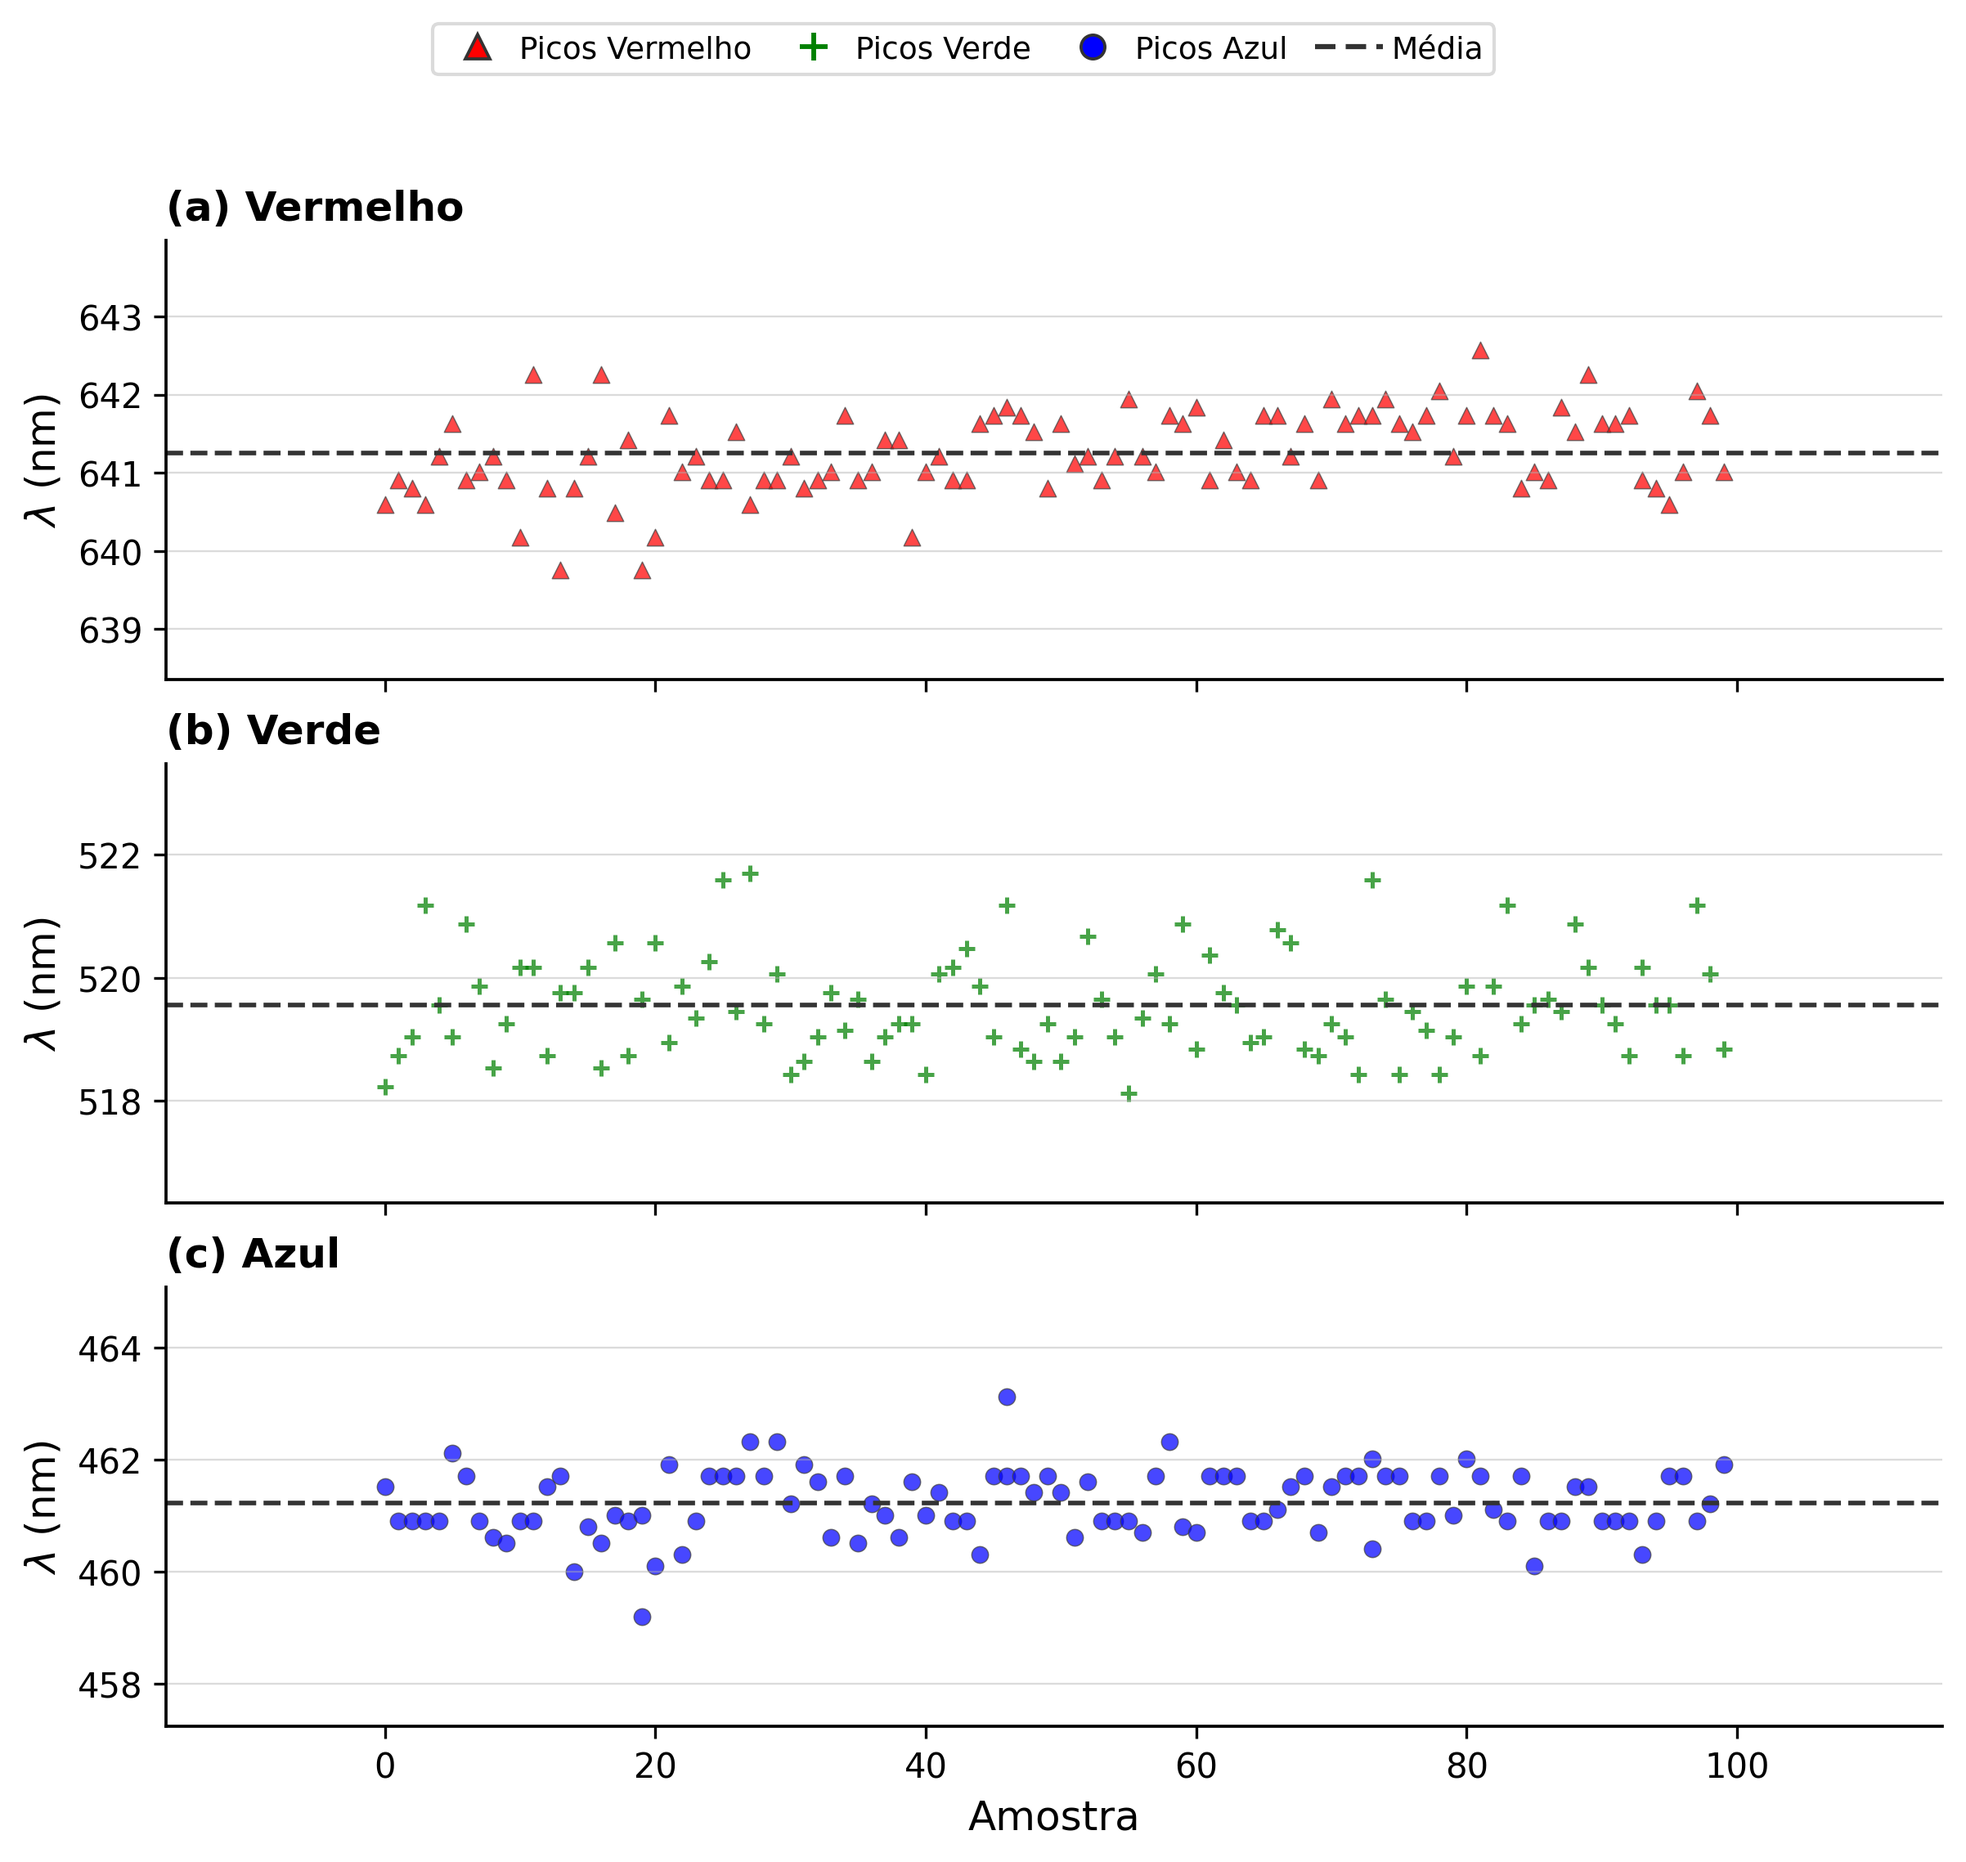
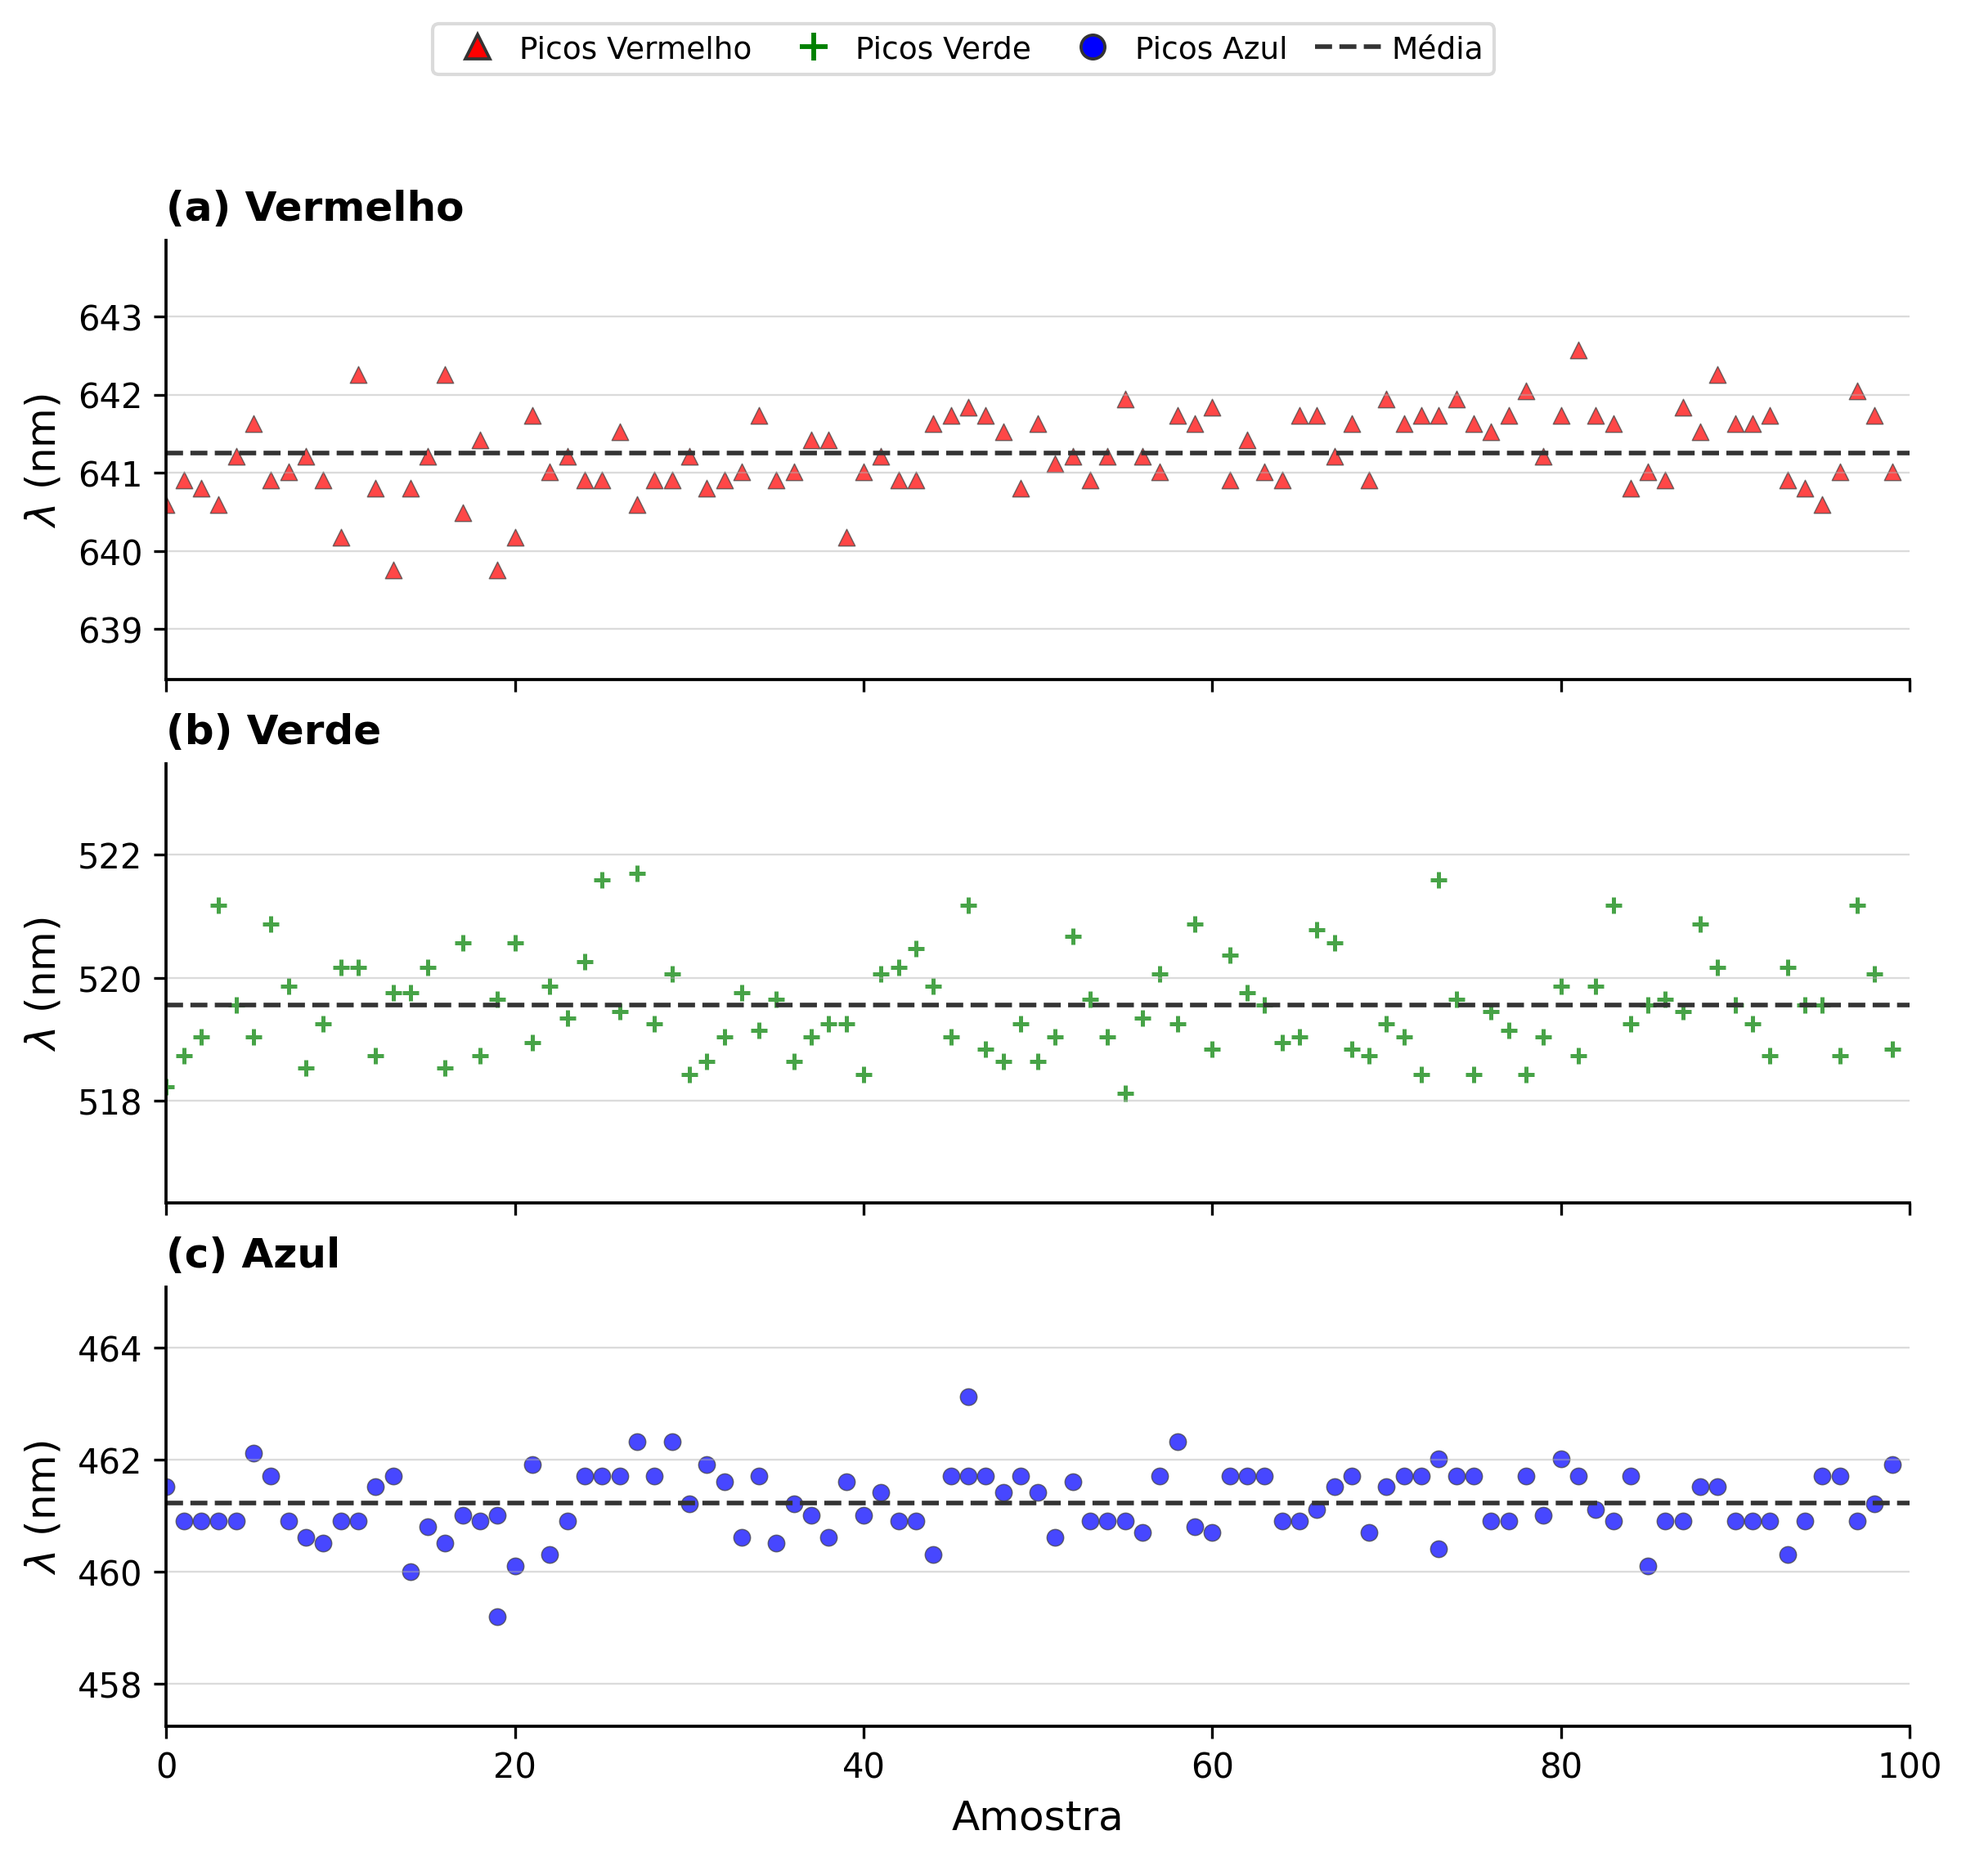
Refine temporal paper plots for axis consistency and cleaner histograms
Keep the sample axis fixed while widening figure layout, simplify histogram annotations to mean-only, and cap histogram counts at 100 for consistent visual comparison across datasets.

Made-with: Cursor

diff --git a/Experimentos/scripts/analise2paper.py b/Experimentos/scripts/analise2paper.py
@@ -621,11 +621,9 @@ def gerar_graficos_estatisticos(grupos_picos, estatisticas_df, fonte="visible"):
     # --- Gráfico 1: evolução temporal (enxuto para paper) ---
     # Marcadores por painel (ordem RVG): triângulo, +, círculo; legenda com mesma cor.
     markers_temporal = ("^", "+", "o")
+    # Largura da figura +30%: mais espaco horizontal em polegadas, sem alterar xlim
+    # (evita deslocar o zero em relacao aos dados).
     largura_fig_temporal = 6.2 * 1.3
-    # Eixo de amostra ~30% mais longo (centrado em 0..100)
-    _cx_amostra = 49.5
-    _meia_span_amostra = 0.5 * 101.0 * 1.3
-    xlim_amostra = (_cx_amostra - _meia_span_amostra, _cx_amostra + _meia_span_amostra)
 
     with plt.rc_context(_matplotlib_paper_context()):
         fig, axes = plt.subplots(
@@ -679,7 +677,8 @@ def gerar_graficos_estatisticos(grupos_picos, estatisticas_df, fonte="visible"):
             ax.set_title(panel, loc="left", fontweight="600")
             ax.grid(True, axis="y", linestyle="-", alpha=0.45)
             _spines_clean(ax)
-            ax.set_xlim(*xlim_amostra)
+            # Amostras 0..99: eixo x fixo sem deslocar a escala (zero na origem do eixo).
+            ax.set_xlim(0, 100)
 
             # Dobrar o intervalo vertical de visualização, centrado nos dados
             wl_arr = np.asarray(wl_values, dtype=float)
@@ -730,13 +729,14 @@ def gerar_graficos_estatisticos(grupos_picos, estatisticas_df, fonte="visible"):
                         label=lbl,
                     )
                 )
+        # Mesmo estilo que ax.axhline (--) — padrões longos na legenda cabem mal no handle curto.
         handles_legenda.append(
             Line2D(
                 [0, 1],
                 [0, 0],
                 color="0.2",
-                linestyle=(0, (4.0, 2.0, 4.0, 2.0)),
-                linewidth=1.5,
+                linestyle="--",
+                linewidth=1.35,
                 label="Média",
             )
         )
@@ -787,30 +787,13 @@ def gerar_graficos_estatisticos(grupos_picos, estatisticas_df, fonte="visible"):
                 edgecolor="0.25",
                 linewidth=0.45,
                 color=cor,
-                label="Contagens",
             )
 
             wl_mean = estatisticas_df[estatisticas_df["Grupo"] == grupo_id][
                 "Comprimento_Onda_Medio_nm"
             ].values[0]
-            wl_std = estatisticas_df[estatisticas_df["Grupo"] == grupo_id][
-                "Desvio_Padrao_nm"
-            ].values[0]
-            wl_incerteza = estatisticas_df[estatisticas_df["Grupo"] == grupo_id][
-                "Incerteza_Expandida_nm"
-            ].values[0]
 
             ax.axvline(wl_mean, color="0.2", linestyle="--", linewidth=1.5, label="Média")
-            ax.axvline(wl_mean + wl_std, color="#cc6600", linestyle=":", linewidth=1.35)
-            ax.axvline(wl_mean - wl_std, color="#cc6600", linestyle=":", linewidth=1.35, label=r"$\pm 1\sigma$")
-            ax.axvline(wl_mean + wl_incerteza, color="#8b0000", linestyle="-.", linewidth=1.2)
-            ax.axvline(
-                wl_mean - wl_incerteza,
-                color="#8b0000",
-                linestyle="-.",
-                linewidth=1.2,
-                label=r"Incerteza ($k = 1{,}96$)",
-            )
 
             ax.set_xlabel(r"$\lambda$ (nm)")
             if idx == 0:
@@ -818,7 +801,7 @@ def gerar_graficos_estatisticos(grupos_picos, estatisticas_df, fonte="visible"):
             ax.set_title(f"({letters[idx]}) {nome_cor}", loc="left", fontweight="600")
             ax.grid(True, axis="y", alpha=0.45)
             _spines_clean(ax)
-            ax.set_ylim(0, 150)
+            ax.set_ylim(0, 100)
             ax.legend(loc="upper right", framealpha=0.95, edgecolor="0.85")
 
         out2 = pasta_output / "histogramas_3_picos_RGB.png"
